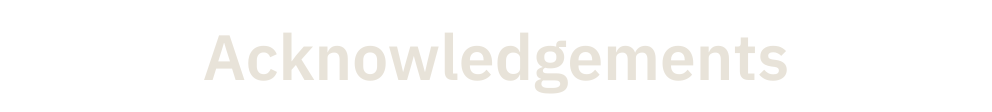
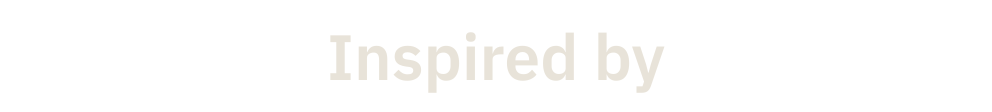
Refine inspiration grid and compact total stars badge

Changed region(s): [[0.1875, 0.2946, 0.8125, 0.8304]]

diff --git a/tests/test_profile_summary.py b/tests/test_profile_summary.py
@@ -1,0 +1,42 @@
+"""Keep the footer badge compact across automatic star-count refreshes."""
+from html.parser import HTMLParser
+from pathlib import Path
+import sys
+import unittest
+from unittest.mock import patch
+
+sys.path.insert(0, str(Path(__file__).resolve().parents[1] / 'scripts'))
+import folio_summary
+
+
+class Images(HTMLParser):
+    def __init__(self, source):
+        super().__init__()
+        self.images = []
+        self.feed(source)
+
+    def handle_starttag(self, tag, attrs):
+        if tag == 'img':
+            self.images.append(dict(attrs))
+
+
+class TotalBadgeTests(unittest.TestCase):
+    def test_compact_dimensions_preserve_ratio_as_the_count_grows(self):
+        for source_width, stars, expected_width in [(150, 1995, 213), (162, 12345, 227)]:
+            with self.subTest(stars=stars):
+                data = dict(badge=dict(width=source_width), total_stars=stars,
+                            fetched_at='2026-09-15T12:00:00Z')
+                with patch.object(folio_summary, 'settings', return_value=dict(account='HANCORE-linux')), \
+                     patch.object(folio_summary, 'snapshot', return_value=data):
+                    html = folio_summary.total_badge_html()
+                image, = Images(html).images
+                self.assertEqual(image['width'], str(expected_width))
+                self.assertEqual(image['height'], '44')
+                self.assertEqual(image['alt'], f'Total project stars: {stars:,}; public non-fork repositories + Omarchy Plugin Marketplace; checked 2026-09-15')
+                self.assertIn('href="https://github.com/HANCORE-linux?tab=repositories"', html)
+                self.assertIn('srcset="./assets/total-stars-dark.png"', html)
+                self.assertEqual(image['src'], './assets/total-stars-light.png')
+
+
+if __name__ == '__main__':
+    unittest.main()

diff --git a/scripts/folio_acknowledgements.py b/scripts/folio_acknowledgements.py
@@ -1,4 +1,4 @@
-"""Individually linked, vertically stacked acknowledgement mounts."""
+"""Individually linked inspiration mounts in native, wrapping three-card rows."""
 import hashlib
 from html import escape
 import json
@@ -32,15 +32,17 @@ def acknowledgement_svg(person, mode):
 
 def acknowledgement_markdown():
     from folio_labels import label_picture
-    rows = []
+    cards = []
     for person in people():
         slug = person['slug']
         alt = escape(f'{person["name"]} / {person["role"]}', quote=True)
-        rows.append(f'<p align="center"><a href="{escape(person["url"], quote=True)}"><picture>'
-                    f'<source media="(prefers-color-scheme: dark)" srcset="./assets/thanks-{slug}-dark.png" />'
-                    f'<img src="./assets/thanks-{slug}-light.png" width="248" height="89" alt="{alt}" />'
-                    '</picture></a></p>')
-    return ('<!-- Generated by scripts/build_folio.py. One acknowledgement per row. -->\n'
+        cards.append(f'<a href="{escape(person["url"], quote=True)}"><picture>'
+                     f'<source media="(prefers-color-scheme: dark)" srcset="./assets/thanks-{slug}-dark.png" />'
+                     f'<img src="./assets/thanks-{slug}-light.png" width="248" height="89" alt="{alt}" />'
+                     '</picture></a>')
+    rows = ['<p align="center">' + ''.join(cards[start:start + 3]) + '</p>'
+            for start in range(0, len(cards), 3)]
+    return ('<!-- Generated by scripts/build_folio.py. Up to three inspiration cards per row. -->\n'
             '<p><a href="https://github.com/HANCORE-linux">← Back to profile</a></p>\n\n'
             f'<p align="center">{label_picture("acknowledgements", 27)}</p>\n\n'
             + '\n\n'.join(rows) + '\n')

diff --git a/tests/test_profile_navigation.py b/tests/test_profile_navigation.py
@@ -31,6 +31,21 @@ class Links(HTMLParser):
 
 
 class ProfileNavigationTests(unittest.TestCase):
+    def test_inspired_by_keeps_three_rows_and_the_existing_page_link(self):
+        for prefix in ('', 'folio/'):
+            with self.subTest(prefix=prefix):
+                page = (ROOT / (prefix + 'ACKNOWLEDGEMENTS.md')).read_text()
+                rows = [Links(part).links for part in page.split('</p>')]
+                rows = [row for row in rows if any(link['alt'] for link in row)]
+                self.assertEqual([len(row) for row in rows], [3, 3, 2])
+                self.assertIn('alt="Inspired by"', page)
+                self.assertNotIn('alt="Acknowledgements"', page)
+                self.assertEqual(page.count('width="248" height="89"'), 8)
+                profile = (ROOT / (prefix + 'README.md')).read_text()
+                link, = [link for link in Links(profile).links if link['alt'] == 'Inspired by']
+                self.assertEqual(link['href'], './ACKNOWLEDGEMENTS.md')
+                self.assertIn('title="Inspired by"', profile)
+
     def test_every_return_link_opens_the_account_profile(self):
         for prefix in ('', 'folio/'):
             for name, count in [('README.md', 0), ('THEMES.md', 2), ('ACKNOWLEDGEMENTS.md', 1)]:

diff --git a/scripts/folio_details.py b/scripts/folio_details.py
@@ -4,7 +4,7 @@ from xml.sax.saxutils import escape
 SOCIALS = [
     ('discord', 'Discord', 'https://discord.com/users/816417588610334741'),
     ('kofi', 'Ko-fi', 'https://ko-fi.com/hancore'),
-    ('acknowledgements', 'Acknowledgements', './ACKNOWLEDGEMENTS.md'),
+    ('acknowledgements', 'Inspired by', './ACKNOWLEDGEMENTS.md'),
 ]
 
 # Pango advance of the bundled IBM Plex Sans Medium at 34 px, unhinted.
@@ -57,7 +57,7 @@ def social_svg(slug, mode):
     if slug == 'acknowledgements':
         ink = '#e8e3d9' if mode == 'dark' else '#262522'
         return f'''<svg xmlns="http://www.w3.org/2000/svg" width="176" height="176" viewBox="0 0 44 44">
-  <title>Acknowledgements</title>
+  <title>Inspired by</title>
   <g fill="none" stroke="{ink}" stroke-width="2" stroke-linecap="round" stroke-linejoin="round">
     <path d="M22 12C18 9 12 9 6 10V33C12 32 18 32 22 35C26 32 32 32 38 33V10C32 9 26 9 22 12Z" />
     <path d="M22 12V35M11 18H17M11 23H17" />

diff --git a/scripts/folio_summary.py b/scripts/folio_summary.py
@@ -80,5 +80,5 @@ def total_badge_html():
     note = f"Public repositories + Omarchy Plugin Marketplace. Forks excluded. Snapshot: {stamp}. Stars per project, not unique people."
     return (f'<p align="center"><a href="https://github.com/{config["account"]}?tab=repositories" title="{escape(note, quote=True)}">'
             '<picture><source media="(prefers-color-scheme: dark)" srcset="./assets/total-stars-dark.png" />'
-            f'<img src="./assets/total-stars-light.png" width="{round((data["badge"]["width"] + 24) * 1.5)}" height="54" '
+            f'<img src="./assets/total-stars-light.png" width="{round((data["badge"]["width"] + 24) * 44 / 36)}" height="44" '
             f'alt="{escape(alt, quote=True)}" /></picture></a></p>')

diff --git a/scripts/render_register_pages.py b/scripts/render_register_pages.py
@@ -19,7 +19,7 @@ def render_pages():
         ('collection.html', 'THEMES.md', (FOLIO / 'THEMES.md').read_text()),
         ('identity.html', 'HANCORE · Namensstudie', identity),
         ('register-profile.html', 'README · Registerserie', profile),
-        ('folio-acknowledgements.html', 'ACKNOWLEDGEMENTS.md', (FOLIO / 'ACKNOWLEDGEMENTS.md').read_text()),
+        ('folio-acknowledgements.html', 'Inspired by', (FOLIO / 'ACKNOWLEDGEMENTS.md').read_text()),
     ]:
         resolved = markdown.replace('"./assets/', '"./folio/assets/').replace('"./collection/', '"./folio/collection/')
         resolved = resolved.replace('"./README.md"', '"./folio.html"').replace('"./THEMES.md"', '"./collection.html?view=readme"')

diff --git a/scripts/folio_labels.py b/scripts/folio_labels.py
@@ -11,7 +11,7 @@ def labels(theme_count):
         'subtitle': ('Linux themes & interfaces.',),
         'popular': ('Most starred themes',),
         'archive': ('Theme archive', f'{theme_count} themes · color00–07 · A–Z'),
-        'acknowledgements': ('Acknowledgements',),
+        'acknowledgements': ('Inspired by',),
     }
 
 

diff --git a/ACKNOWLEDGEMENTS.md b/ACKNOWLEDGEMENTS.md
@@ -1,21 +1,11 @@
 <!-- Generated from folio/ by scripts/export_profile.py --write. -->
-<!-- Generated by scripts/build_folio.py. One acknowledgement per row. -->
+<!-- Generated by scripts/build_folio.py. Up to three inspiration cards per row. -->
 <p><a href="https://github.com/HANCORE-linux">← Back to profile</a></p>
 
-<p align="center"><picture><source media="(prefers-color-scheme: dark)" srcset="./folio/assets/label-acknowledgements-dark.png" /><img src="./folio/assets/label-acknowledgements-light.png" alt="Acknowledgements" width="248" height="28" /></picture></p>
+<p align="center"><picture><source media="(prefers-color-scheme: dark)" srcset="./folio/assets/label-acknowledgements-dark.png" /><img src="./folio/assets/label-acknowledgements-light.png" alt="Inspired by" width="248" height="28" /></picture></p>
 
-<p align="center"><a href="https://github.com/vyrx-dev"><picture><source media="(prefers-color-scheme: dark)" srcset="./folio/assets/thanks-amit-dark.png" /><img src="./folio/assets/thanks-amit-light.png" width="248" height="89" alt="Amit / Content Creator" /></picture></a></p>
+<p align="center"><a href="https://github.com/vyrx-dev"><picture><source media="(prefers-color-scheme: dark)" srcset="./folio/assets/thanks-amit-dark.png" /><img src="./folio/assets/thanks-amit-light.png" width="248" height="89" alt="Amit / Content Creator" /></picture></a><a href="https://github.com/OldJobobo"><picture><source media="(prefers-color-scheme: dark)" srcset="./folio/assets/thanks-oldjobobo-dark.png" /><img src="./folio/assets/thanks-oldjobobo-light.png" width="248" height="89" alt="OldJobobo / Minister of Taste" /></picture></a><a href="https://github.com/tahfizhabib"><picture><source media="(prefers-color-scheme: dark)" srcset="./folio/assets/thanks-miqim-dark.png" /><img src="./folio/assets/thanks-miqim-light.png" width="248" height="89" alt="Miqim / Visual Stylist" /></picture></a></p>
 
-<p align="center"><a href="https://github.com/OldJobobo"><picture><source media="(prefers-color-scheme: dark)" srcset="./folio/assets/thanks-oldjobobo-dark.png" /><img src="./folio/assets/thanks-oldjobobo-light.png" width="248" height="89" alt="OldJobobo / Minister of Taste" /></picture></a></p>
+<p align="center"><a href="https://github.com/imbypass/omarchy-theme-hook"><picture><source media="(prefers-color-scheme: dark)" srcset="./folio/assets/thanks-bypass-dark.png" /><img src="./folio/assets/thanks-bypass-light.png" width="248" height="89" alt="Bypass / Theme-hook-script" /></picture></a><a href="https://github.com/bjarneo/aether"><picture><source media="(prefers-color-scheme: dark)" srcset="./folio/assets/thanks-bjarneo-dark.png" /><img src="./folio/assets/thanks-bjarneo-light.png" width="248" height="89" alt="bjarneo / Aether" /></picture></a><a href="https://github.com/tahayvr/omarchist"><picture><source media="(prefers-color-scheme: dark)" srcset="./folio/assets/thanks-taha-dark.png" /><img src="./folio/assets/thanks-taha-light.png" width="248" height="89" alt="Taha / Omarchist" /></picture></a></p>
 
-<p align="center"><a href="https://github.com/tahfizhabib"><picture><source media="(prefers-color-scheme: dark)" srcset="./folio/assets/thanks-miqim-dark.png" /><img src="./folio/assets/thanks-miqim-light.png" width="248" height="89" alt="Miqim / Visual Stylist" /></picture></a></p>
-
-<p align="center"><a href="https://github.com/imbypass/omarchy-theme-hook"><picture><source media="(prefers-color-scheme: dark)" srcset="./folio/assets/thanks-bypass-dark.png" /><img src="./folio/assets/thanks-bypass-light.png" width="248" height="89" alt="Bypass / Theme-hook-script" /></picture></a></p>
-
-<p align="center"><a href="https://github.com/bjarneo/aether"><picture><source media="(prefers-color-scheme: dark)" srcset="./folio/assets/thanks-bjarneo-dark.png" /><img src="./folio/assets/thanks-bjarneo-light.png" width="248" height="89" alt="bjarneo / Aether" /></picture></a></p>
-
-<p align="center"><a href="https://github.com/tahayvr/omarchist"><picture><source media="(prefers-color-scheme: dark)" srcset="./folio/assets/thanks-taha-dark.png" /><img src="./folio/assets/thanks-taha-light.png" width="248" height="89" alt="Taha / Omarchist" /></picture></a></p>
-
-<p align="center"><a href="https://github.com/dhh"><picture><source media="(prefers-color-scheme: dark)" srcset="./folio/assets/thanks-dhh-dark.png" /><img src="./folio/assets/thanks-dhh-light.png" width="248" height="89" alt="DHH / Omarchy" /></picture></a></p>
-
-<p align="center"><a href="https://github.com/ryanrhughes"><picture><source media="(prefers-color-scheme: dark)" srcset="./folio/assets/thanks-ryan-hughes-dark.png" /><img src="./folio/assets/thanks-ryan-hughes-light.png" width="248" height="89" alt="Ryan Hughes / Omarchy-dev" /></picture></a></p>
+<p align="center"><a href="https://github.com/dhh"><picture><source media="(prefers-color-scheme: dark)" srcset="./folio/assets/thanks-dhh-dark.png" /><img src="./folio/assets/thanks-dhh-light.png" width="248" height="89" alt="DHH / Omarchy" /></picture></a><a href="https://github.com/ryanrhughes"><picture><source media="(prefers-color-scheme: dark)" srcset="./folio/assets/thanks-ryan-hughes-dark.png" /><img src="./folio/assets/thanks-ryan-hughes-light.png" width="248" height="89" alt="Ryan Hughes / Omarchy-dev" /></picture></a></p>

diff --git a/folio/ACKNOWLEDGEMENTS.md b/folio/ACKNOWLEDGEMENTS.md
@@ -1,20 +1,10 @@
-<!-- Generated by scripts/build_folio.py. One acknowledgement per row. -->
+<!-- Generated by scripts/build_folio.py. Up to three inspiration cards per row. -->
 <p><a href="https://github.com/HANCORE-linux">← Back to profile</a></p>
 
-<p align="center"><picture><source media="(prefers-color-scheme: dark)" srcset="./assets/label-acknowledgements-dark.png" /><img src="./assets/label-acknowledgements-light.png" alt="Acknowledgements" width="248" height="28" /></picture></p>
+<p align="center"><picture><source media="(prefers-color-scheme: dark)" srcset="./assets/label-acknowledgements-dark.png" /><img src="./assets/label-acknowledgements-light.png" alt="Inspired by" width="248" height="28" /></picture></p>
 
-<p align="center"><a href="https://github.com/vyrx-dev"><picture><source media="(prefers-color-scheme: dark)" srcset="./assets/thanks-amit-dark.png" /><img src="./assets/thanks-amit-light.png" width="248" height="89" alt="Amit / Content Creator" /></picture></a></p>
+<p align="center"><a href="https://github.com/vyrx-dev"><picture><source media="(prefers-color-scheme: dark)" srcset="./assets/thanks-amit-dark.png" /><img src="./assets/thanks-amit-light.png" width="248" height="89" alt="Amit / Content Creator" /></picture></a><a href="https://github.com/OldJobobo"><picture><source media="(prefers-color-scheme: dark)" srcset="./assets/thanks-oldjobobo-dark.png" /><img src="./assets/thanks-oldjobobo-light.png" width="248" height="89" alt="OldJobobo / Minister of Taste" /></picture></a><a href="https://github.com/tahfizhabib"><picture><source media="(prefers-color-scheme: dark)" srcset="./assets/thanks-miqim-dark.png" /><img src="./assets/thanks-miqim-light.png" width="248" height="89" alt="Miqim / Visual Stylist" /></picture></a></p>
 
-<p align="center"><a href="https://github.com/OldJobobo"><picture><source media="(prefers-color-scheme: dark)" srcset="./assets/thanks-oldjobobo-dark.png" /><img src="./assets/thanks-oldjobobo-light.png" width="248" height="89" alt="OldJobobo / Minister of Taste" /></picture></a></p>
+<p align="center"><a href="https://github.com/imbypass/omarchy-theme-hook"><picture><source media="(prefers-color-scheme: dark)" srcset="./assets/thanks-bypass-dark.png" /><img src="./assets/thanks-bypass-light.png" width="248" height="89" alt="Bypass / Theme-hook-script" /></picture></a><a href="https://github.com/bjarneo/aether"><picture><source media="(prefers-color-scheme: dark)" srcset="./assets/thanks-bjarneo-dark.png" /><img src="./assets/thanks-bjarneo-light.png" width="248" height="89" alt="bjarneo / Aether" /></picture></a><a href="https://github.com/tahayvr/omarchist"><picture><source media="(prefers-color-scheme: dark)" srcset="./assets/thanks-taha-dark.png" /><img src="./assets/thanks-taha-light.png" width="248" height="89" alt="Taha / Omarchist" /></picture></a></p>
 
-<p align="center"><a href="https://github.com/tahfizhabib"><picture><source media="(prefers-color-scheme: dark)" srcset="./assets/thanks-miqim-dark.png" /><img src="./assets/thanks-miqim-light.png" width="248" height="89" alt="Miqim / Visual Stylist" /></picture></a></p>
-
-<p align="center"><a href="https://github.com/imbypass/omarchy-theme-hook"><picture><source media="(prefers-color-scheme: dark)" srcset="./assets/thanks-bypass-dark.png" /><img src="./assets/thanks-bypass-light.png" width="248" height="89" alt="Bypass / Theme-hook-script" /></picture></a></p>
-
-<p align="center"><a href="https://github.com/bjarneo/aether"><picture><source media="(prefers-color-scheme: dark)" srcset="./assets/thanks-bjarneo-dark.png" /><img src="./assets/thanks-bjarneo-light.png" width="248" height="89" alt="bjarneo / Aether" /></picture></a></p>
-
-<p align="center"><a href="https://github.com/tahayvr/omarchist"><picture><source media="(prefers-color-scheme: dark)" srcset="./assets/thanks-taha-dark.png" /><img src="./assets/thanks-taha-light.png" width="248" height="89" alt="Taha / Omarchist" /></picture></a></p>
-
-<p align="center"><a href="https://github.com/dhh"><picture><source media="(prefers-color-scheme: dark)" srcset="./assets/thanks-dhh-dark.png" /><img src="./assets/thanks-dhh-light.png" width="248" height="89" alt="DHH / Omarchy" /></picture></a></p>
-
-<p align="center"><a href="https://github.com/ryanrhughes"><picture><source media="(prefers-color-scheme: dark)" srcset="./assets/thanks-ryan-hughes-dark.png" /><img src="./assets/thanks-ryan-hughes-light.png" width="248" height="89" alt="Ryan Hughes / Omarchy-dev" /></picture></a></p>
+<p align="center"><a href="https://github.com/dhh"><picture><source media="(prefers-color-scheme: dark)" srcset="./assets/thanks-dhh-dark.png" /><img src="./assets/thanks-dhh-light.png" width="248" height="89" alt="DHH / Omarchy" /></picture></a><a href="https://github.com/ryanrhughes"><picture><source media="(prefers-color-scheme: dark)" srcset="./assets/thanks-ryan-hughes-dark.png" /><img src="./assets/thanks-ryan-hughes-light.png" width="248" height="89" alt="Ryan Hughes / Omarchy-dev" /></picture></a></p>

diff --git a/folio/DIRECTION.md b/folio/DIRECTION.md
@@ -14,7 +14,7 @@ Six popular themes form a 3 × 2 gallery on wide views, retaining their 248 × 1
 
 The full collection is deliberately absent from the profile DOM. A matching shallow “All 27 themes / Open collection →” card links to [THEMES.md](THEMES.md), a separate GitHub Markdown page: A–Z, two 396 × 312 cards per row on desktop, one per row on narrow screens. Every row is a native paragraph containing two linked pictures; no custom CSS, grid, scripting or table is required. A return link appears at both ends. The old four-column palette table is preserved in the backup, not displayed in the current README.
 
-The footer has three icon-only links in this exact order: Discord, Ko-fi, Acknowledgements. Each has a 44 × 44 image target, accessible alternative text and a tooltip. The two existing social symbols and target URLs are unchanged. The new original open-book symbol with an orange heart sits to the right of Ko-fi; its line weight and 32px visual footprint match the quiet footer scale. It links to `folio/ACKNOWLEDGEMENTS.md`, not an inline list or a section named “Credits & Contributions”. The separate page uses a 16px Plex Sans heading and a native, selectable list with the seven user-specified names and roles, in their supplied order. Link destinations are reused from the previous root acknowledgements document; that original document and its rights/tooling notes remain untouched. The local page is `/folio-acknowledgements.html`, keeping the older comparison page intact. No account, profile or donation settings are changed.
+The footer has three icon-only links in this exact order: Discord, Ko-fi, Inspired by. Each has a 44 × 44 image target, accessible alternative text and a tooltip. The two existing social symbols and target URLs are unchanged. The original open-book symbol with an orange heart sits to the right of Ko-fi; its line weight and 32px visual footprint match the quiet footer scale. It links to `folio/ACKNOWLEDGEMENTS.md`, keeping that filename for existing links. The separate page is titled “Inspired by”, in 16px Plex Sans, and shows the eight people who inspire HANCORE as independently linked cards. The desktop arrangement is three centered rows (3–3–2), using native Markdown-compatible image links that wrap on narrow screens. Each 248 × 89 px card retains its original square portrait, centered name/role, frame and shadow. Names, roles, ordering and link destinations remain unchanged. The local page is `/folio-acknowledgements.html`, keeping the older comparison page intact. No account, profile or donation settings are changed.
 
 ## Typography
 

diff --git a/README.md b/README.md
@@ -29,7 +29,7 @@
 <!-- END GENERATED: popular-themes -->
 
 <!-- BEGIN GENERATED: theme-index -->
-<p align="center"><a href="https://github.com/HANCORE-linux?tab=repositories" title="Public repositories + Omarchy Plugin Marketplace. Forks excluded. Snapshot: 2026-09-15. Stars per project, not unique people."><picture><source media="(prefers-color-scheme: dark)" srcset="./folio/assets/total-stars-dark.png" /><img src="./folio/assets/total-stars-light.png" width="261" height="54" alt="Total project stars: 1,995; public non-fork repositories + Omarchy Plugin Marketplace; checked 2026-09-15" /></picture></a></p>
+<p align="center"><a href="https://github.com/HANCORE-linux?tab=repositories" title="Public repositories + Omarchy Plugin Marketplace. Forks excluded. Snapshot: 2026-09-15. Stars per project, not unique people."><picture><source media="(prefers-color-scheme: dark)" srcset="./folio/assets/total-stars-dark.png" /><img src="./folio/assets/total-stars-light.png" width="213" height="44" alt="Total project stars: 1,995; public non-fork repositories + Omarchy Plugin Marketplace; checked 2026-09-15" /></picture></a></p>
 <!-- END GENERATED: theme-index -->
 
 </div>
@@ -38,6 +38,6 @@
 <p align="center">
   <a href="https://discord.com/users/816417588610334741" title="Discord"><picture><source media="(prefers-color-scheme: dark)" srcset="./folio/assets/social-discord-dark.png" /><img src="./folio/assets/social-discord-light.png" alt="Discord" width="44" height="44" /></picture></a>
   <a href="https://ko-fi.com/hancore" title="Ko-fi"><picture><source media="(prefers-color-scheme: dark)" srcset="./folio/assets/social-kofi-dark.png" /><img src="./folio/assets/social-kofi-light.png" alt="Ko-fi" width="44" height="44" /></picture></a>
-  <a href="./ACKNOWLEDGEMENTS.md" title="Acknowledgements"><picture><source media="(prefers-color-scheme: dark)" srcset="./folio/assets/social-acknowledgements-dark.png" /><img src="./folio/assets/social-acknowledgements-light.png" alt="Acknowledgements" width="44" height="44" /></picture></a>
+  <a href="./ACKNOWLEDGEMENTS.md" title="Inspired by"><picture><source media="(prefers-color-scheme: dark)" srcset="./folio/assets/social-acknowledgements-dark.png" /><img src="./folio/assets/social-acknowledgements-light.png" alt="Inspired by" width="44" height="44" /></picture></a>
 </p>
 <!-- END GENERATED: social -->

diff --git a/folio/studies/register/profile.md b/folio/studies/register/profile.md
@@ -28,7 +28,7 @@
 <!-- END GENERATED: popular-themes -->
 
 <!-- BEGIN GENERATED: theme-index -->
-<p align="center"><a href="https://github.com/HANCORE-linux?tab=repositories" title="Public repositories + Omarchy Plugin Marketplace. Forks excluded. Snapshot: 2026-09-15. Stars per project, not unique people."><picture><source media="(prefers-color-scheme: dark)" srcset="../../assets/total-stars-dark.png" /><img src="../../assets/total-stars-light.png" width="261" height="54" alt="Total project stars: 1,995; public non-fork repositories + Omarchy Plugin Marketplace; checked 2026-09-15" /></picture></a></p>
+<p align="center"><a href="https://github.com/HANCORE-linux?tab=repositories" title="Public repositories + Omarchy Plugin Marketplace. Forks excluded. Snapshot: 2026-09-15. Stars per project, not unique people."><picture><source media="(prefers-color-scheme: dark)" srcset="../../assets/total-stars-dark.png" /><img src="../../assets/total-stars-light.png" width="213" height="44" alt="Total project stars: 1,995; public non-fork repositories + Omarchy Plugin Marketplace; checked 2026-09-15" /></picture></a></p>
 <!-- END GENERATED: theme-index -->
 
 </div>
@@ -37,6 +37,6 @@
 <p align="center">
   <a href="https://discord.com/users/816417588610334741" title="Discord"><picture><source media="(prefers-color-scheme: dark)" srcset="../../assets/social-discord-dark.png" /><img src="../../assets/social-discord-light.png" alt="Discord" width="44" height="44" /></picture></a>
   <a href="https://ko-fi.com/hancore" title="Ko-fi"><picture><source media="(prefers-color-scheme: dark)" srcset="../../assets/social-kofi-dark.png" /><img src="../../assets/social-kofi-light.png" alt="Ko-fi" width="44" height="44" /></picture></a>
-  <a href="./ACKNOWLEDGEMENTS.md" title="Acknowledgements"><picture><source media="(prefers-color-scheme: dark)" srcset="../../assets/social-acknowledgements-dark.png" /><img src="../../assets/social-acknowledgements-light.png" alt="Acknowledgements" width="44" height="44" /></picture></a>
+  <a href="./ACKNOWLEDGEMENTS.md" title="Inspired by"><picture><source media="(prefers-color-scheme: dark)" srcset="../../assets/social-acknowledgements-dark.png" /><img src="../../assets/social-acknowledgements-light.png" alt="Inspired by" width="44" height="44" /></picture></a>
 </p>
 <!-- END GENERATED: social -->
